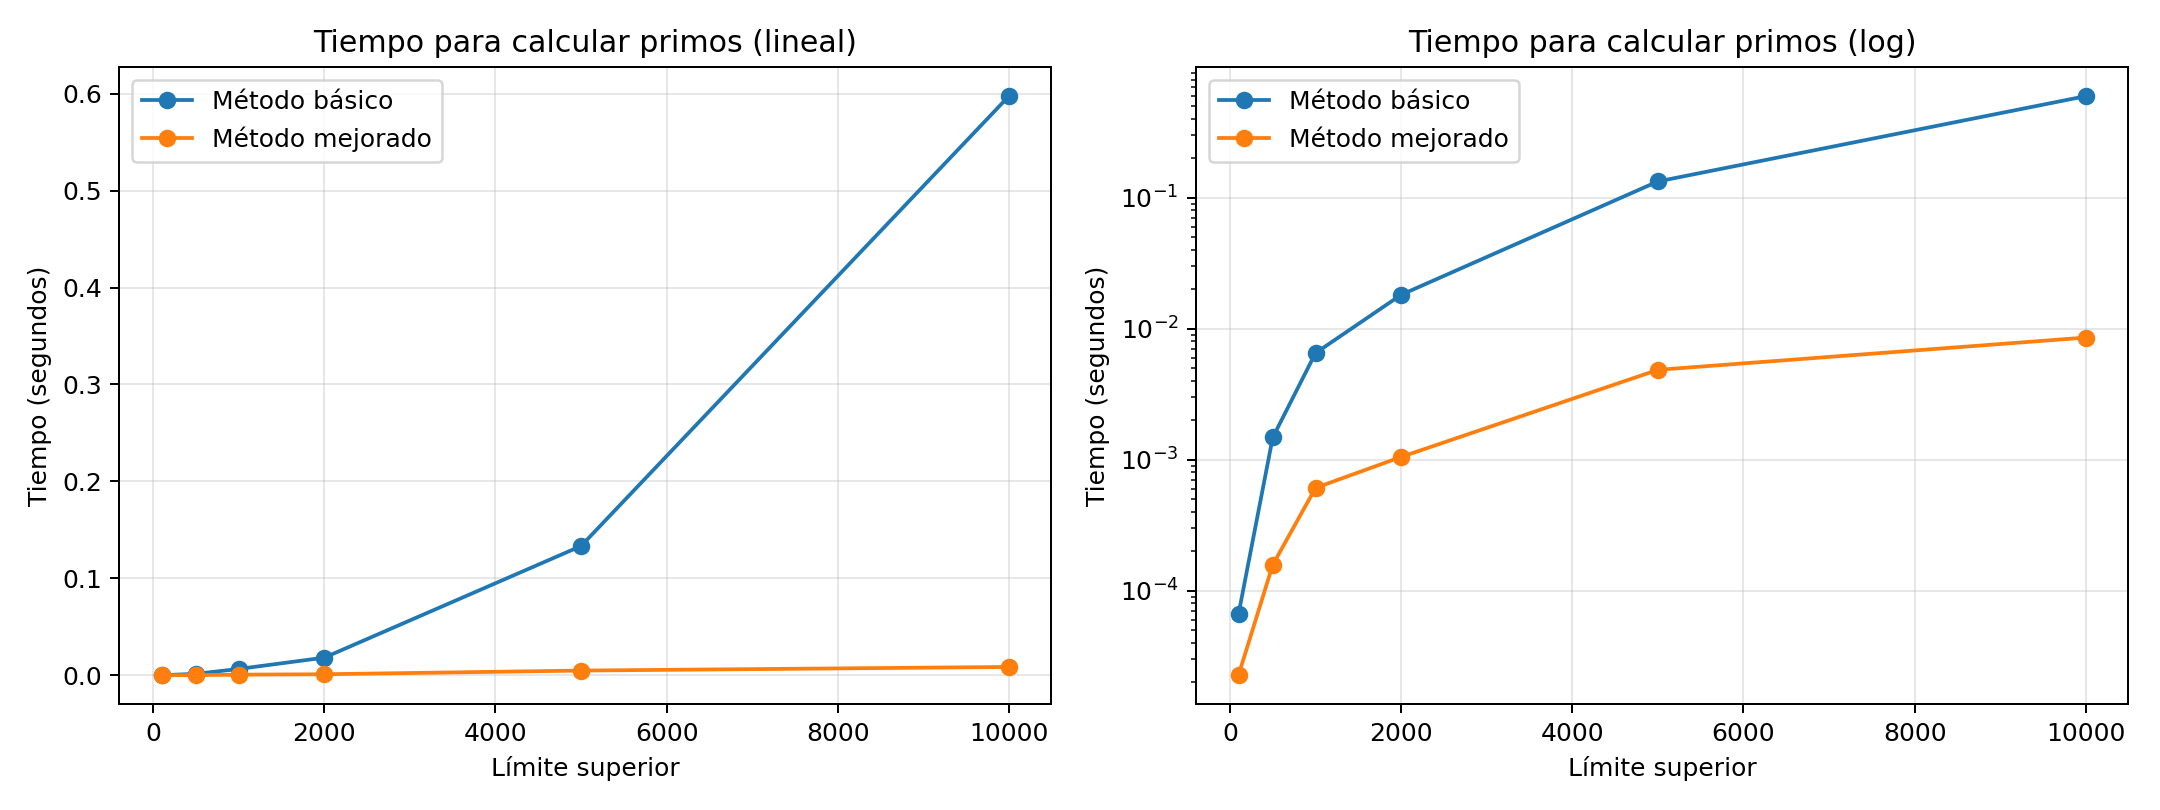
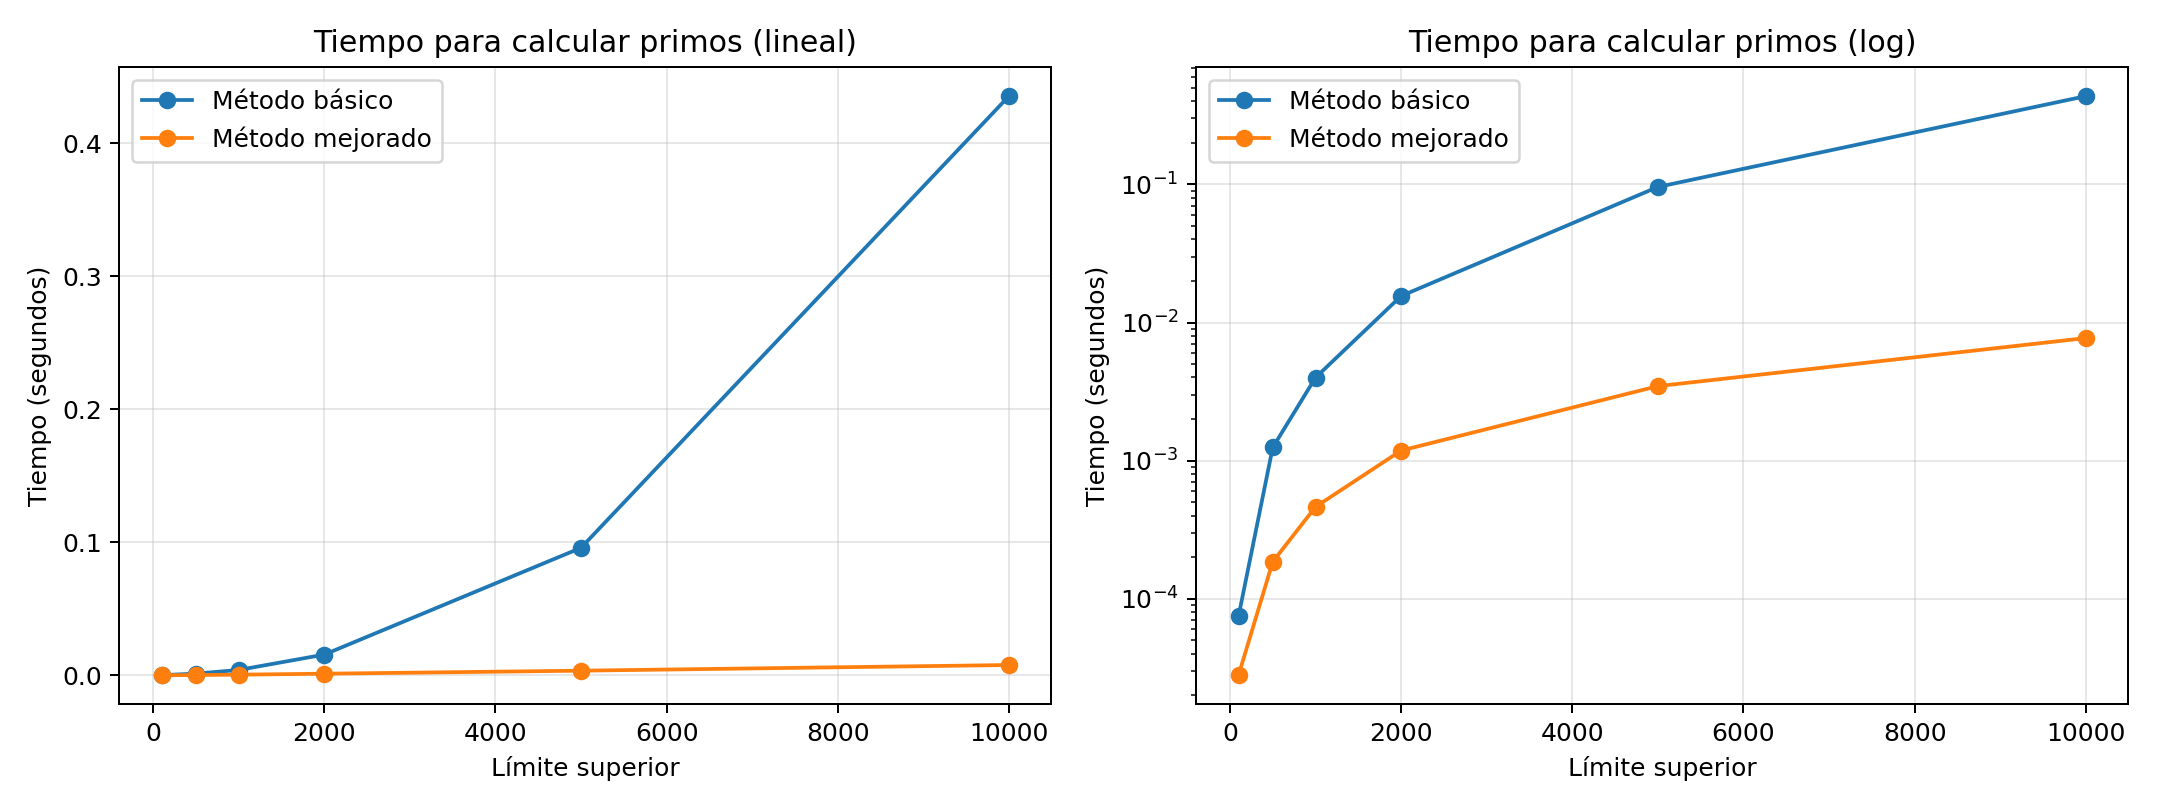
final commit

diff --git a/tp0/scripts/tarea3_palabras.py b/tp0/scripts/tarea3_palabras.py
@@ -1,8 +1,7 @@
-"""Tarea 3: conteo de palabras, grafico de frecuencias y nube de palabras."""
+"""Tarea 3: conteo de palabras, gráfico de frecuencias y nube de palabras."""
 
 import argparse
 from collections import Counter
-import math
 import os
 from pathlib import Path
 import re
@@ -81,39 +80,7 @@ def guardar_frecuencias_csv(conteos, ruta):
     dataframe.to_csv(ruta, index=False)
 
 
-def guardar_nube_svg(conteos, ruta, max_palabras=40):
-    palabras = conteos.most_common(max_palabras)
-    ancho = 900
-    alto = 620
-    centro_x = ancho / 2
-    centro_y = alto / 2
-    max_frecuencia = max((frecuencia for _, frecuencia in palabras), default=1)
-    colores = ["#1b9e77", "#d95f02", "#7570b3", "#e7298a", "#66a61e", "#386cb0"]
-
-    elementos = []
-    for indice, (palabra, frecuencia) in enumerate(palabras):
-        angulo = indice * 2.4
-        radio = 18 + indice * 9
-        x = centro_x + math.cos(angulo) * radio
-        y = centro_y + math.sin(angulo) * radio
-        tamanio = 14 + int(42 * frecuencia / max_frecuencia)
-        color = colores[indice % len(colores)]
-        elementos.append(
-            f'<text x="{x:.1f}" y="{y:.1f}" text-anchor="middle" '
-            f'font-family="Arial" font-size="{tamanio}" fill="{color}">{palabra}</text>'
-        )
-
-    svg = f"""<svg xmlns="http://www.w3.org/2000/svg" width="{ancho}" height="{alto}" viewBox="0 0 {ancho} {alto}">
-  <rect width="100%" height="100%" fill="white"/>
-  <text x="{centro_x}" y="32" text-anchor="middle" font-family="Arial" font-size="20">Nube de palabras</text>
-  {"".join(elementos)}
-</svg>
-"""
-    with open(ruta, "w", encoding="utf-8") as archivo:
-        archivo.write(svg)
-
-
-def guardar_nube_wordcloud(conteos, ruta):
+def guardar_nube(conteos, ruta):
     import matplotlib
 
     matplotlib.use("Agg", force=True)
@@ -174,8 +141,7 @@ def main():
 
     RESULTADOS_DIR.mkdir(exist_ok=True)
     guardar_frecuencias_csv(conteos, RESULTADOS_DIR / "tarea3_frecuencias.csv")
-    guardar_nube_svg(conteos, RESULTADOS_DIR / "tarea3_nube_palabras.svg")
-    guardar_nube_wordcloud(conteos, RESULTADOS_DIR / "tarea3_nube_wordcloud.png")
+    guardar_nube(conteos, RESULTADOS_DIR / "tarea3_nube_wordcloud.png")
     guardar_barras(conteos, RESULTADOS_DIR / "tarea3_frecuencias_top15.png")
     print("Se guardaron los resultados en la carpeta resultados/")
     print("Excluir palabras muy frecuentes como artículos/preposiciones ayuda a ver mejor los temas del texto.")

diff --git a/tp0/README_TP0.md b/tp0/README_TP0.md
@@ -1,10 +1,29 @@
 # TP0 - Entornos y primeros programas
 
-Entrega preparada para ejecutar con Python 3 desde la terminal o desde Jupyter Notebook.
+Bioinformática 2026 - FCEyN UBA Exactas.
+
+Este TP integra los ejercicios básicos de Python (variables, listas,
+condicionales, loops, archivos y funciones) y las tres tareas de programación:
+números primos, generador de passwords, y conteo + nube de palabras.
+
+## Estructura
+
+- `notebooks/TP0_Bioinformatica_Entrega_ejecutado.ipynb`: notebook con todas
+  las celdas ya ejecutadas y las salidas visibles. Es **autocontenido**: se
+  puede correr sin el resto del repositorio.
+- `scripts/`: versiones CLI de los mismos ejercicios, organizadas por archivo.
+- `data/texto_prueba.txt`: archivo de texto que usa la Tarea 3.
+- `resultados/`: gráficos y CSV generados por los scripts.
+- `requirements.txt`: lista de paquetes y versiones utilizadas.
 
 ## Entorno
 
-Los paquetes están instalados en un entorno virtual local `.venv`.
+Los paquetes se instalan en un entorno virtual local `.venv`:
+
+```bash
+python3 -m venv .venv
+.venv/bin/python -m pip install -r requirements.txt
+```
 
 Para activarlo:
 
@@ -12,52 +31,43 @@ Para activarlo:
 source .venv/bin/activate
 ```
 
-Para recrearlo desde cero en otra computadora:
-
-```bash
-python3 -m venv .venv
-.venv/bin/python -m pip install -r requirements.txt
-```
-
-## Estructura
-
-- `scripts/`: programas Python del TP.
-- `notebooks/`: notebook de entrega.
-- `data/`: archivos de entrada para probar los programas.
-- `resultados/`: archivos generados por los programas, como gráficos y CSV.
-- `requirements.txt`: paquetes usados para recrear el entorno.
-
 ## Archivos principales
 
 - `scripts/inicio.py`: primer programa pedido en el ejercicio 1.
-- `scripts/tp0_ejercicios_basicos.py`: ejercicios básicos agrupados: variables, listas, condicionales, loops, archivos y funciones.
-- `scripts/tarea1_primos.py`: números primos, límite definido por usuario, medición de tiempos y gráfico comparativo.
-- `scripts/tarea2_passwords.py`: generador de passwords con nombre, fecha de nacimiento y DNI. Incluye una versión aleatoria y otra con `itertools.permutations`.
-- `scripts/tarea3_palabras.py`: conteo de una palabra, frecuencia de palabras, gráfico de barras y nube de palabras.
-- `data/texto_prueba.txt`: archivo de texto para probar la tarea 3.
-- `notebooks/TP0_Bioinformatica_Entrega.ipynb`: notebook limpio y autocontenido.
-- `notebooks/TP0_Bioinformatica_Entrega_ejecutado.ipynb`: notebook ejecutado, recomendado para entregar.
+- `scripts/tp0_ejercicios_basicos.py`: ejercicios básicos agrupados (variables,
+  listas, condicionales, loops, archivos y funciones).
+- `scripts/tarea1_primos.py`: números primos con dos versiones (básica y
+  mejorada con `sqrt(n)`), medición de tiempos y gráficos en escala lineal y
+  logarítmica.
+- `scripts/tarea2_passwords.py`: generador de passwords con dos enfoques
+  (aleatorio y por permutaciones, según la consigna del TP).
+- `scripts/tarea3_palabras.py`: conteo de palabras, gráfico de barras y nube
+  de palabras con `wordcloud`.
 
 ## Cómo ejecutar
+
+Abrir el notebook:
+
+```bash
+.venv/bin/jupyter notebook notebooks/TP0_Bioinformatica_Entrega_ejecutado.ipynb
+```
+
+Correr los scripts desde la terminal:
 
 ```bash
 .venv/bin/python scripts/inicio.py
 .venv/bin/python scripts/tp0_ejercicios_basicos.py
 .venv/bin/python scripts/tarea1_primos.py --limite 50
+.venv/bin/python scripts/tarea2_passwords.py --nombre "Elena Gilbert" --fecha "20/04/2005" --dni "40123456"
 .venv/bin/python scripts/tarea2_passwords.py --nombre "Elena Gilbert" --fecha "20/04/2005" --dni "40123456" --metodo permutaciones
 .venv/bin/python scripts/tarea3_palabras.py --archivo data/texto_prueba.txt --palabra bioinformatica
 ```
 
-Para abrir el notebook:
+## Pseudocódigo de la Tarea 1
 
-```bash
-.venv/bin/python -m notebook notebooks/TP0_Bioinformatica_Entrega_ejecutado.ipynb
-```
-
-## Pseudocódigo de la tarea 1
-
-Un número primo es un entero mayor que 1 que solo puede dividirse exactamente por 1 y por sí mismo.
-Para detectarlo, el programa busca si existe algún divisor intermedio.
+Un número primo es un entero mayor que 1 que sólo puede dividirse exactamente
+por 1 y por sí mismo. Para detectarlo, el programa busca si existe algún
+divisor intermedio.
 
 Versión básica:
 
@@ -94,19 +104,16 @@ para cada número entre 1 y límite:
             es primo
 ```
 
-Por eso, para saber si `n` es primo, alcanza con probar divisores hasta `raíz(n)`.
-Si no aparece ningún divisor hasta ese punto, el número es primo.
+Para saber si `n` es primo alcanza con probar divisores hasta `raíz(n)`. Si no
+aparece ningún divisor hasta ese punto, el número es primo.
 
 ## Respuestas breves
 
-En un loop `for`, la variable elegida toma de a uno los valores de la secuencia. Por ejemplo, en
-`for x in [2, 3, 5]`, primero `x` vale 2, luego 3 y luego 5.
-
-En la tarea 2 se muestran dos estrategias: una aleatoria, que es práctica para generar claves,
-y otra con permutaciones, que responde de forma más directa a la consigna del TP.
-
-En el conteo de palabras conviene excluir artículos, preposiciones y conectores muy frecuentes
-porque suelen ocupar mucho lugar en la nube sin aportar demasiado significado temático. La nube
-puede servir para explorar rápidamente los temas dominantes de un texto, por ejemplo abstracts
-de papers o respuestas abiertas de una encuesta. También ayuda a detectar muletillas: si una
-palabra aparece muy grande y no aporta contenido, probablemente convenga revisar el texto.
+- **Rol de `x` en un `for`:** la variable elegida toma de a uno los valores de
+  la secuencia. Por ejemplo, en `for x in [2, 3, 5]`, primero `x` vale 2,
+  luego 3 y luego 5.
+- **Stopwords en la nube:** conviene excluir artículos, preposiciones y
+  conectores muy frecuentes (`la`, `el`, `de`, `que`, `y`, `por`, ...) porque
+  ocupan mucho lugar en la nube sin aportar significado temático.
+- **Para qué sirve la nube de palabras:** para tener una vista rápida de los
+  temas dominantes en un texto (resúmenes, abstracts, respuestas abiertas).